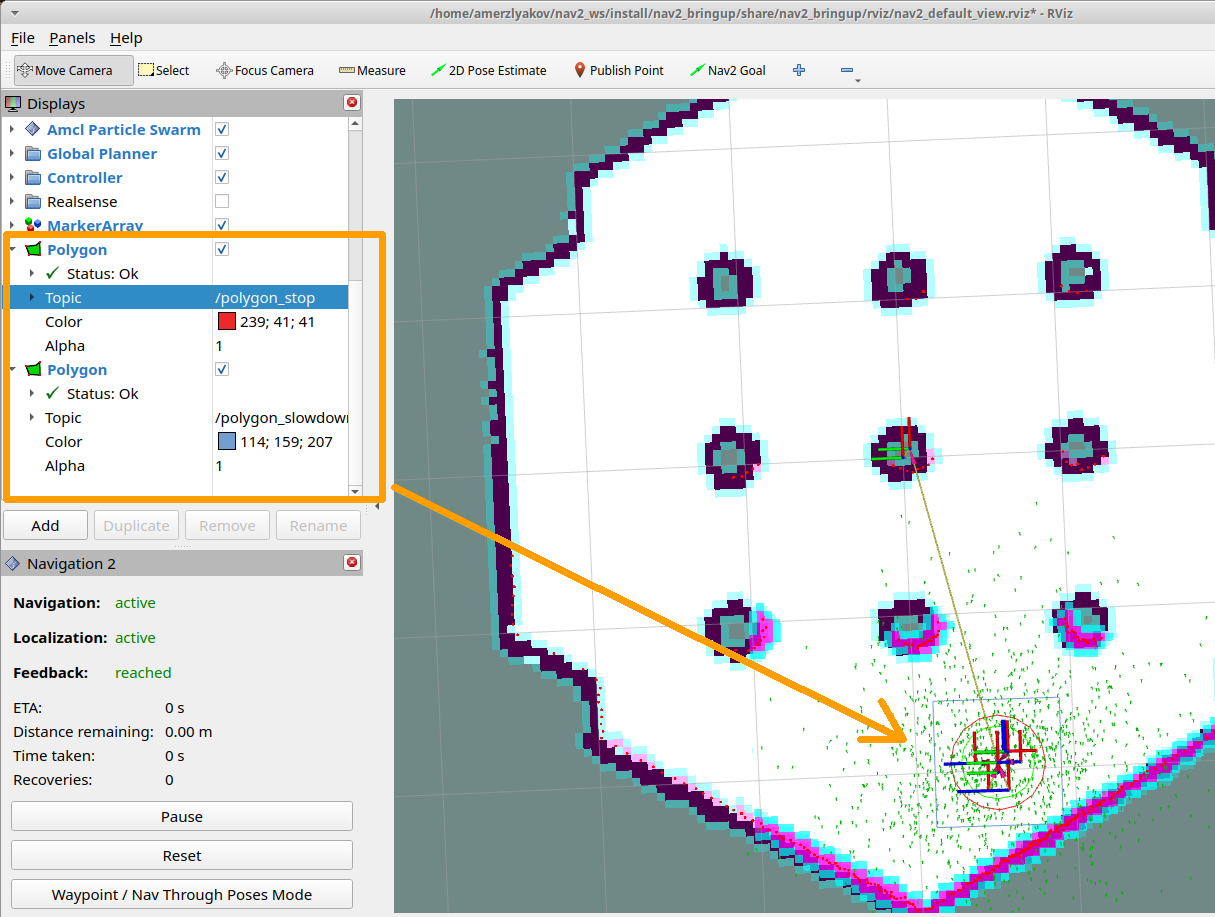
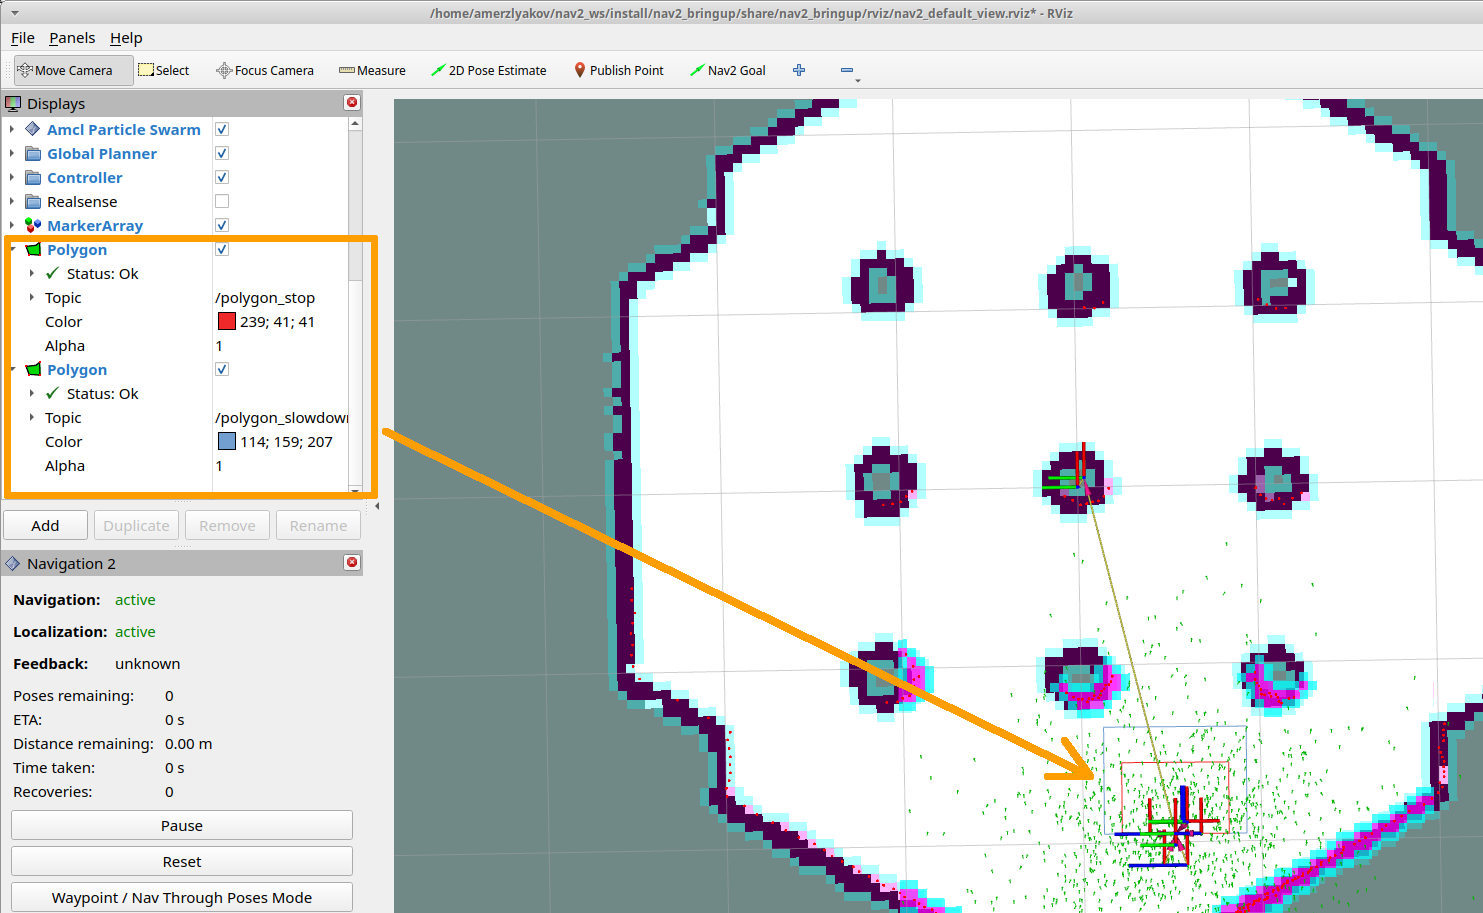
Meet review items

diff --git a/tutorials/docs/using_collision_monitor.rst b/tutorials/docs/using_collision_monitor.rst
@@ -27,33 +27,36 @@ Configuring Collision Monitor
 =============================
 
 The Collision Monitor node has its own ``collision_monitor_node.launch.py`` launch-file and preset parameters in the ``collision_monitor_params.yaml`` file for demonstration, though its trivial to add this to Nav2's main launch file if being used in practice.
-For the demonstration, two shapes will be created - an inner circle stop area around the robot and a larger slowdown bounding box:
+For the demonstration, two shapes will be created - an inner stop and a larger slowdown bounding boxes placed in the front of the robot:
 
 .. image:: images/Collision_Monitor/polygons.png
   :width: 800px
 
 If more than 3 points will appear inside a slowdown box, the robot will decrease its speed to ``30%`` from its value.
-For the cases when obstacles are dangerously close to the robot, inner stop circle will work.
-For this setup, the following lines should be added into ``collision_monitor_params.yaml`` parameters file. Stop circle is named as ``CircleStop`` and slowdown bounding box - as ``PolygonSlow``:
+For the cases when obstacles are dangerously close to the robot, inner stop zone will work.
+For this setup, the following lines should be added into ``collision_monitor_params.yaml`` parameters file. Stop box is named as ``PolygonStop`` and slowdown bounding box - as ``PolygonSlow``:
 
 .. code-block:: yaml
 
-    polygons: ["CircleStop", "PolygonSlow"]
-      CircleStop:
-        type: "circle"
-        radius: 0.3
-        aaction_type: "stop"
-        max_points: 3
-        visualize: True
-        polygon_pub_topic: "polygon_stop"
-      PolygonSlow:
-        type: "polygon"
-        points: [0.4, 0.4, 0.4, -0.4, -0.4, -0.4, -0.4, 0.4]
-        action_type: "slowdown"
-        max_points: 3
-        slowdown_ratio: 0.3
-        visualize: True
-        polygon_pub_topic: "polygon_slowdown"
+    polygons: ["PolygonStop", "PolygonSlow"]
+    PolygonStop:
+      type: "polygon"
+      points: [0.4, 0.3, 0.4, -0.3, 0.0, -0.3, 0.0, 0.3]
+      action_type: "stop"
+      max_points: 3
+      visualize: True
+      polygon_pub_topic: "polygon_stop"
+    PolygonSlow:
+      type: "polygon"
+      points: [0.6, 0.4, 0.6, -0.4, 0.0, -0.4, 0.0, 0.4]
+      action_type: "slowdown"
+      max_points: 3
+      slowdown_ratio: 0.3
+      visualize: True
+      polygon_pub_topic: "polygon_slowdown"
+
+.. note::
+  The circle shape could be used instead of polygon, e.g. for the case of omni-directional robots where the collision can occur from any direction. However, for the tutorial needs, let's focus our view on polygons. For the same reason, we leave out of scope the Approach model. Both of these cases could be easily enabled by referencing to the :ref:`configuring_collision_monitor` configuration guide.
 
 For the working configuration, at least one data source should be added.
 In current demonstration, it is used laser scanner (though ``PointCloud2`` is also possible), which is described by the following lines for Collision Monitor node:
@@ -61,9 +64,9 @@ In current demonstration, it is used laser scanner (though ``PointCloud2`` is al
 .. code-block:: yaml
 
     observation_sources: ["scan"]
-      scan:
-        type: "scan"
-        topic: "/scan"
+    scan:
+      type: "scan"
+      topic: "scan"
 
 Set topic names, frame ID-s and timeouts to work correctly with a default Nav2 setup.
 The whole ``nav2_collision_monitor/params/collision_monitor_params.yaml`` file in this case will look as follows:
@@ -80,17 +83,17 @@ The whole ``nav2_collision_monitor/params/collision_monitor_params.yaml`` file i
         transform_tolerance: 0.5
         source_timeout: 5.0
         stop_pub_timeout: 2.0
-        polygons: ["CircleStop", "PolygonSlow"]
-        CircleStop:
-          type: "circle"
-          radius: 0.3
+        polygons: ["PolygonStop", "PolygonSlow"]
+        PolygonStop:
+          type: "polygon"
+          points: [0.4, 0.3, 0.4, -0.3, 0.0, -0.3, 0.0, 0.3]
           action_type: "stop"
           max_points: 3
           visualize: True
           polygon_pub_topic: "polygon_stop"
         PolygonSlow:
           type: "polygon"
-          points: [0.4, 0.4, 0.4, -0.4, -0.4, -0.4, -0.4, 0.4]
+          points: [0.6, 0.4, 0.6, -0.4, 0.0, -0.4, 0.0, 0.4]
           action_type: "slowdown"
           max_points: 3
           slowdown_ratio: 0.3
@@ -99,53 +102,41 @@ The whole ``nav2_collision_monitor/params/collision_monitor_params.yaml`` file i
         observation_sources: ["scan"]
         scan:
           type: "scan"
-          topic: "/scan"
+          topic: "scan"
 
 Preparing Nav2 stack
 ====================
 
-Since Collision Monitor is designed to operate as an independent safety node, Nav2 stack has no knowledge about it.
-It is laying under the stack and operating after all necessary decisions were made by Nav2.
-This is achieved through remapped ``cmd_vel`` topic, going out from a Controller.
-This is being made by means of adding the remapping as written below to the ``navigation_launch.py`` bringup script.
-Please note, that remapped ``cmd_vel_raw`` topic should match to the ``cmd_vel_in_topic`` parameter value of Collision Monitor node, and ``cmd_vel_out_topic`` parameter value should be equal to initial ``cmd_vel`` to fit the replacement:
+The Collision Monitor is designed to operate below Nav2 as an independent safety node.
+This acts as a filter on the ``cmd_vel`` topic coming out of the Controller Server.
+If no such zone is triggered, then the Controller's ``cmd_vel`` is used.
+Else, it is scaled or set to stop as appropriate.
+For correct operation of the Collision Monitor with the Controller, it is required to add the ``cmd_vel -> cmd_vel_raw`` remapping to the ``navigation_launch.py`` bringup script as presented below:
 
 .. code-block:: python
 
-         remappings = [('/tf', 'tf'),
-    -                  ('/tf_static', 'tf_static')]
-    +                  ('/tf_static', 'tf_static'),
-    +                  ('/cmd_vel', '/cmd_vel_raw')]
-
-Since Collision Monitor performs effectively to avoid collisions, we need to increase the probability of it, e.g. by allowing the robot to get closer to the obstacles.
-For that, let's almost remove the inflation radius around obstacles from ``0.55`` to ``0.02`` meters in a ``nav2_params.yaml`` Nav2 bringup parameters for both local and global costmaps:
-
-.. code-block:: yaml
-
-    local_costmap:
-      local_costmap:
-        ros__parameters:
-          ...
-          inflation_layer:
-            plugin: "nav2_costmap_2d::InflationLayer"
-            cost_scaling_factor: 3.0
-    -       inflation_radius: 0.55
-    +       inflation_radius: 0.02
+    Node(
+        package='nav2_controller',
+        executable='controller_server',
+        output='screen',
+        respawn=use_respawn,
+        respawn_delay=2.0,
+        parameters=[configured_params],
+    +   remappings=remappings + [('cmd_vel', 'cmd_vel_raw')]),
     ...
-    global_costmap:
-      global_costmap:
-        ros__parameters:
-          ...
-          inflation_layer:
-            plugin: "nav2_costmap_2d::InflationLayer"
-            cost_scaling_factor: 3.0
-    -       inflation_radius: 0.55
-    +       inflation_radius: 0.02
+    ComposableNode(
+        package='nav2_controller',
+        plugin='nav2_controller::ControllerServer',
+        name='controller_server',
+        parameters=[configured_params],
+    +   remappings=remappings + [('cmd_vel', 'cmd_vel_raw')]),
+
+Please note, that the remapped ``cmd_vel_raw`` topic should match to the input velocity ``cmd_vel_in_topic`` parameter value of the Collision Monitor node, and the output velocity ``cmd_vel_out_topic`` parameter value should be actual ``cmd_vel`` to fit the replacement.
 
 Demo Execution
 ==============
 
-Once Collision Monitor node has been tuned, ``cmd_vel`` topics remapped and obstacle avoidance decreased, Collision Monitor node is ready to run.
+Once Collision Monitor node has been tuned and ``cmd_vel`` topics remapped, Collision Monitor node is ready to run.
 For that, run Nav2 stack as written in :ref:`getting_started`:
 
 .. code-block:: bash
@@ -158,7 +149,7 @@ In parallel console, launch Collision Monitor node by using its launch-file:
 
   ros2 launch nav2_collision_monitor collision_monitor_node.launch.py
 
-Since both ``CircleStop`` and ``PolygonSlow`` polygons will have their own publishers, they could be added to visualization as shown at the picture below:
+Since both ``PolygonStop`` and ``PolygonSlow`` polygons will have their own publishers, they could be added to visualization as shown at the picture below:
 
 .. image:: images/Collision_Monitor/polygons_visualization.png
   :width: 800px

diff --git a/configuration/packages/configuring-collision-monitor.rst b/configuration/packages/configuring-collision-monitor.rst
@@ -3,31 +3,42 @@
 Collision Monitor
 #################
 
-Collision Monitor - is an independent layer in Nav2 providing an additional level of robot safety assurance.
-It allows performing robot collision avoidance by monitoring the obstacles in surrounding environments laying in collision proximity to the robot.
+The Collision Monitor is a node providing an additional level of robot safety.
+It performs several collision avoidance related tasks using incoming data from the sensors, bypassing the costmap and trajectory planners, to monitor for and prevent potential collisions at the emergency-stop level.
+
+This is analogous to safety sensor and hardware features; take in laser scans from a real-time certified safety scanner, detect if there is to be an imminent collision in a configurable bounding box, and either emergency-stop the certified robot controller or slow the robot to avoid such collision.
+However, this node is done at the CPU level with any form of sensor.
+As such, this does not provide hard real-time safety certifications, but uses the same types of techniques with the same types of data for users that do not have safety-rated laser sensors, safety-rated controllers, or wish to use any type of data input (e.g. pointclouds from depth or stereo or range sensors).
+
+This is a useful and integral part of large heavy industrial robots, or robots moving with high velocities, around people or other dynamic agents (e.g. other robots) as a safety mechanism for high-response emergency stopping.
+The costmaps / trajectory planners will handle most situations, but this is to handle obstacles that virtually appear out of no where (from the robot's perspective) or approach the robot at such high speed it needs to immediately stop to prevent collision.
 
 See the package's ``README`` for more complete information.
 
 Features
 ********
 
+The Collision Monitor uses polygons relative the robot's base frame origin to define "zones".
+Data that fall into these zones trigger an operation depending on the model being used.
+A given instance of the Collision Monitor can have many zones with different models at the same time.
+When multiple zones trigger at once, the most aggressive one is used (e.g. stop > slow 50% > slow 10%).
+
 The following models of safety behaviors are employed by Collision Monitor:
 
-- **Stop model**: Define a safety area surrounding the robot and a point threshold. If more that ``max_points`` appear inside this area, stop the robot until the obstacles will disappear.
-- **Slowdown model**: Define a safety area around the robot and slow the maximum speed by a ``slowdown_ratio``, if more than ``max_points`` points will appear inside the area.
-- **Approach model**: With the current robot speed, estimate the time to collision to points obtained from sensors. If the time is less than ``time_before_collision`` seconds, slow the robot until it will be equal to that time. The effect here would be to keep the robot always ``time_before_collision`` seconds from a collision and continuously scale down its speeds.
+- **Stop model**: Define a zone and a point threshold. If more that ``max_points`` obstacle points appear inside this area, stop the robot until the obstacles will disappear.
+- **Slowdown model**: Define a zone around the robot and slow the maximum speed for a ``slowdown_ratio``, if more than ``max_points`` points will appear inside the area.
+- **Approach model**: Using the current robot speed, estimate the time to collision to sensor data. If the time is less than ``time_before_collision`` seconds (0.5, 2, 5, etc...), the robot will slow such that it is now at least ``time_before_collision`` seconds to collision. The effect here would be to keep the robot always ``time_before_collision`` seconds from any collision.
 
-The safety area around the robot can take the following shapes:
+The zones around the robot can take the following shapes:
 
-- Arbitrary user-defined polygon around the robot for usage in stop and slowdown models.
-- Robot footprint polygon, which is used in the approach behavior model only.
-- Circle, used in all models: for stop and slowdown models as a safety area, for approach model as a robot footprint. Circle is made for the best performance and could be used in the cases where the safety area or robot could be approximated by round shape.
+- Arbitrary user-defined polygon relative to the robot base frame.
+- Circle: is made for the best performance and could be used in the cases where the zone or robot could be approximated by round shape.
+- Robot footprint polygon, which is used in the approach behavior model only. Will use the footprint topic to allow it to be dynamically adjusted over time.
 
-NOTE: Although safety behavior models are not intended to be used simultaneously (e.g. stop model should not be crossed with approach one), it is not prohibited to. Collision Monitor allows setting simultaneously multiple shapes with different behavior models.
+All shapes (``Polygon`` and ``Circle``) are derived from base ``Polygon`` class, so without loss of generality they would be called as "polygons".
+Subscribed footprint is also having the same properties as other polygons, but it is being obtained a footprint topic for the Approach Model.
 
-All shapes (``Polygon`` and ``Circle``) are derived from base ``Polygon`` class, so without loss of generality they would be called as "polygons". Subscribed footprint is also having the same properties as other polygons, but it is being obtained from ``nav2_costmap_2d::FootprintSubscriber``.
-
-The obstacle points are being obtained from different data sources. Collision Monitor is subscribed to:
+The data may be obtained from different data sources:
 
 - Laser scanners (``sensor_msgs::msg::LaserScan`` messages)
 - PointClouds (``sensor_msgs::msg::PointCloud2`` messages)
@@ -122,7 +133,7 @@ Parameters
   ============== =============================
 
   Description:
-    List of safety area shapes (stop/slowdown bounding boxes, footprint, approach circle, etc...). Causes an error, if not specialized.
+    List of zones (stop/slowdown bounding boxes, footprint, approach circle, etc...). Causes an error, if not specialized.
 
 
 :observation_sources:
@@ -161,7 +172,7 @@ Polygons parameters
   ============== =============================
 
   Description:
-    Polygon vertexes, listed in ``{p1.x, p1.y, p2.x, p2.y, p3.x, p3.y, ...}`` format. Used for ``polygon`` type. Minimum 3 points for a triangle polygon. Causes an error, if not specialized.
+    Polygon vertexes, listed in ``{p1.x, p1.y, p2.x, p2.y, p3.x, p3.y, ...}`` format (e.g. ``{0.5, 0.25, 0.5, -0.25, 0.0, -0.25, 0.0, 0.25}`` for the square in the front). Used for ``polygon`` type. Minimum 3 points for a triangle polygon. Causes an error, if not specialized.
 
 :``<polygon_name>``.radius:
 
@@ -183,7 +194,7 @@ Polygons parameters
   ============== =============================
 
   Description:
-    Safety behavior model. Available values are ``stop``, ``slowdown``, ``approach``. Causes an error, if not specialized.
+    Zone behavior model. Available values are ``stop``, ``slowdown``, ``approach``. Causes an error, if not specialized.
 
 :``<polygon_name>``.max_points:
 
@@ -194,7 +205,7 @@ Polygons parameters
   ============== =============================
 
   Description:
-    Maximum number of points to enter inside polygon to be ignored (w/o causing an action).
+    Maximum number of data readings within a zone to not trigger the action.
 
 :``<polygon_name>``.slowdown_ratio:
 
@@ -253,11 +264,11 @@ Polygons parameters
 
 :``<polygon_name>``.footprint_topic:
 
-  ============== =============================
+  ============== ===================================
   Type           Default
-  -------------- -----------------------------
-  string         "footprint"
-  ============== =============================
+  -------------- -----------------------------------
+  string         "local_costmap/published_footprint"
+  ============== ===================================
 
   Description:
     Topic to listen the robot footprint from. Applicable only for ``polygon`` type and ``approach`` action type.

diff --git a/migration/Galactic.rst b/migration/Galactic.rst
@@ -337,7 +337,3 @@ The extra argument is a costmap_ros pointer. This is used to check if the goal i
 Added Assisted Teleop
 *********************
 `PR 2904 <https://github.com/ros-planning/navigation2/pull/2904>`_ adds a new behavior for assisted teleop along with two new BT nodes AssistedTeleop and CancelAssistedTeleop.
-
-Added Collision Monitor
-***********************
-`PR 2982 <https://github.com/ros-planning/navigation2/pull/2982>`_ adds new safety layer operating independently of Nav2 stack which ensures the robot to control the collisions with near obstacles, obtained from different sensors (LaserScan, PointCloud, IR, Sonars, etc...). See :ref:`configuring_collision_monitor` for more details. It is not included in the default bringup batteries included from ``nav2_bringup``.

diff --git a/migration/Humble.rst b/migration/Humble.rst
@@ -1,0 +1,10 @@
+.. _humble_migration
+
+Humble to Iron
+##############
+
+Moving from ROS 2 Humble to Iron, a number of stability improvements were added that we will not specifically address here.
+
+Added Collision Monitor
+***********************
+`PR 2982 <https://github.com/ros-planning/navigation2/pull/2982>`_ adds new safety layer operating independently of Nav2 stack which ensures the robot to control the collisions with near obstacles, obtained from different sensors (LaserScan, PointCloud, IR, Sonars, etc...). See :ref:`configuring_collision_monitor` for more details. It is not included in the default bringup batteries included from ``nav2_bringup``.
